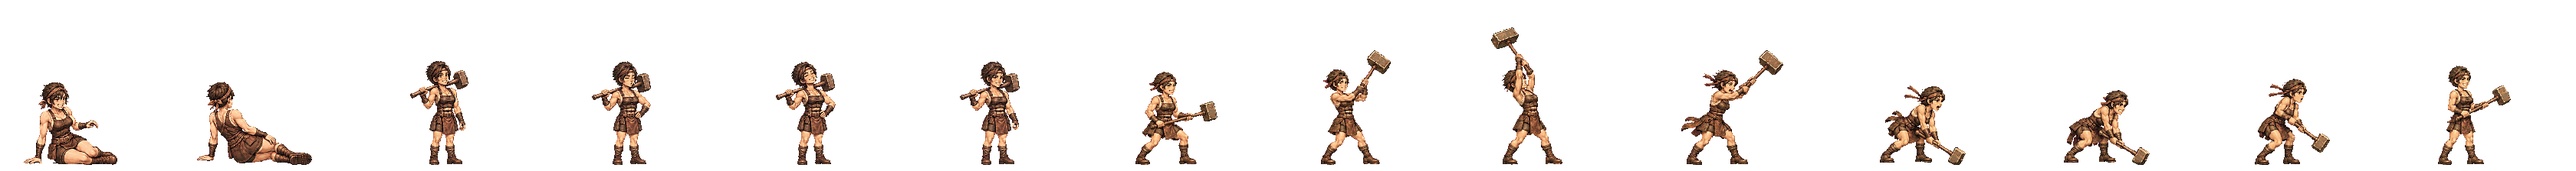
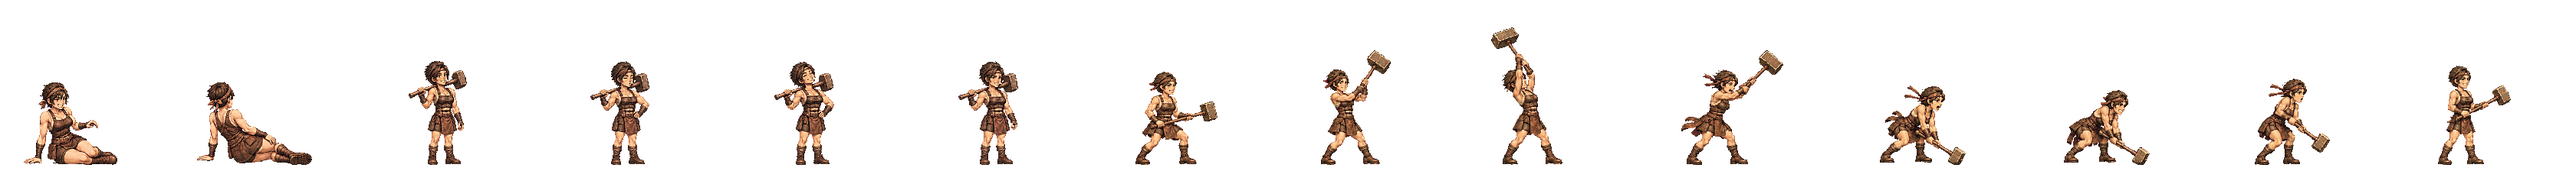
아룸: 서기 키를 걷기와 맞춤(133 → 138) · 검사에 서기↔걷기 키 항목
서기가 옆 사람보다 작게 그려진 채 구워져, 걷기 시작할 때 몸이 3% 커졌다. 서기를 동작 칸의 키로 다시 굽는다(bake-scene stand h=).
anim-check: 걷기 칸의 키와 서기 키의 차(1.8% 안 · 3% 넘으면 불합격).

Claude-Session: https://claude.ai/code/session_01TRiuN7s6aDfSnaHxrkctmU

diff --git a/src/realm/data/spritePx.ts b/src/realm/data/spritePx.ts
@@ -1,3 +1,3 @@
 /** public/realm/anim-px/manifest.json 의 사본 — tools/sprite-normalize.mjs 가 만든다 (손으로 고치지 말 것). 칸 [가로, 세로] · feet = 발 줄(칸 위에서 y) · bodyPx = 서 있는 몸 키 */
 import { expandManifest } from './sprite-manifest.ts'
-export const SPRITE_PX: Readonly<Record<string, { readonly cell: readonly [number, number]; readonly feet: number; readonly bodyPx: number; readonly kind: 'general' | 'soldier' | 'folk' | 'crowd'; readonly cells: number }>> = expandManifest<{ readonly cell: readonly [number, number]; readonly feet: number; readonly bodyPx: number; readonly kind: 'general' | 'soldier' | 'folk' | 'crowd'; readonly cells: number }>([{"cell":[166,128],"feet":126,"bodyPx":124,"kind":"soldier","cells":20},{"cell":[116,128],"feet":126,"bodyPx":117,"kind":"soldier","cells":20},{"cell":[127,128],"feet":126,"bodyPx":116,"kind":"soldier","cells":20},{"cell":[269,128],"feet":126,"bodyPx":126,"kind":"soldier","cells":20},{"cell":[503,128],"feet":126,"bodyPx":127,"kind":"soldier","cells":20},{"cell":[614,128],"feet":126,"bodyPx":126,"kind":"soldier","cells":20},{"cell":[200,160],"feet":156,"bodyPx":138,"kind":"general","cells":20},{"cell":[208,160],"feet":155,"bodyPx":138,"kind":"general","cells":20},{"cell":[232,160],"feet":156,"bodyPx":138,"kind":"general","cells":20},{"cell":[208,160],"feet":154,"bodyPx":133,"kind":"general","cells":20},{"cell":[304,160],"feet":155,"bodyPx":135,"kind":"general","cells":20},{"cell":[224,160],"feet":156,"bodyPx":139,"kind":"general","cells":20},{"cell":[184,160],"feet":156,"bodyPx":138,"kind":"general","cells":20},{"cell":[208,160],"feet":154,"bodyPx":136,"kind":"general","cells":20},{"cell":[240,160],"feet":156,"bodyPx":138,"kind":"general","cells":20},{"cell":[208,160],"feet":156,"bodyPx":138,"kind":"general","cells":20},{"cell":[168,160],"feet":156,"bodyPx":138,"kind":"general","cells":20},{"cell":[192,160],"feet":156,"bodyPx":138,"kind":"general","cells":20},{"cell":[168,160],"feet":156,"bodyPx":124,"kind":"general","cells":20},{"cell":[216,160],"feet":156,"bodyPx":130,"kind":"general","cells":20},{"cell":[200,160],"feet":156,"bodyPx":116,"kind":"general","cells":20},{"cell":[200,160],"feet":156,"bodyPx":135,"kind":"general","cells":20},{"cell":[280,160],"feet":156,"bodyPx":138,"kind":"general","cells":20},{"cell":[232,160],"feet":155,"bodyPx":138,"kind":"general","cells":20},{"cell":[232,160],"feet":156,"bodyPx":134,"kind":"general","cells":20},{"cell":[144,160],"feet":156,"bodyPx":70,"kind":"general","cells":20},{"cell":[208,160],"feet":156,"bodyPx":70,"kind":"general","cells":20},{"cell":[192,160],"feet":156,"bodyPx":70,"kind":"general","cells":20},{"cell":[240,160],"feet":155,"bodyPx":138,"kind":"general","cells":20},{"cell":[160,160],"feet":156,"bodyPx":135,"kind":"general","cells":20},{"cell":[192,160],"feet":156,"bodyPx":128,"kind":"general","cells":20},{"cell":[224,160],"feet":155,"bodyPx":138,"kind":"general","cells":20},{"cell":[208,160],"feet":154,"bodyPx":138,"kind":"general","cells":20},{"cell":[232,160],"feet":156,"bodyPx":139,"kind":"general","cells":20},{"cell":[264,160],"feet":155,"bodyPx":138,"kind":"general","cells":20},{"cell":[216,160],"feet":156,"bodyPx":138,"kind":"general","cells":20},{"cell":[208,160],"feet":156,"bodyPx":134,"kind":"general","cells":20},{"cell":[176,160],"feet":156,"bodyPx":130,"kind":"general","cells":20},{"cell":[248,160],"feet":156,"bodyPx":138,"kind":"general","cells":20},{"cell":[248,160],"feet":155,"bodyPx":138,"kind":"general","cells":20},{"cell":[192,160],"feet":155,"bodyPx":138,"kind":"general","cells":20},{"cell":[192,160],"feet":156,"bodyPx":124,"kind":"general","cells":20},{"cell":[208,160],"feet":154,"bodyPx":131,"kind":"general","cells":20},{"cell":[256,160],"feet":156,"bodyPx":138,"kind":"general","cells":20},{"cell":[232,160],"feet":156,"bodyPx":73,"kind":"general","cells":20},{"cell":[256,160],"feet":155,"bodyPx":138,"kind":"general","cells":20},{"cell":[224,160],"feet":156,"bodyPx":138,"kind":"general","cells":20},{"cell":[264,160],"feet":156,"bodyPx":138,"kind":"general","cells":20},{"cell":[224,160],"feet":156,"bodyPx":128,"kind":"general","cells":20},{"cell":[176,160],"feet":156,"bodyPx":129,"kind":"general","cells":20},{"cell":[208,160],"feet":156,"bodyPx":132,"kind":"general","cells":20},{"cell":[216,160],"feet":155,"bodyPx":138,"kind":"general","cells":20},{"cell":[184,160],"feet":156,"bodyPx":122,"kind":"general","cells":20},{"cell":[176,160],"feet":156,"bodyPx":138,"kind":"general","cells":20},{"cell":[280,160],"feet":155,"bodyPx":133,"kind":"general","cells":20},{"cell":[176,160],"feet":156,"bodyPx":70,"kind":"general","cells":20},{"cell":[186,128],"feet":126,"bodyPx":127,"kind":"soldier","cells":20},{"cell":[298,128],"feet":126,"bodyPx":126,"kind":"soldier","cells":20},{"cell":[82,128],"feet":126,"bodyPx":114,"kind":"folk","cells":8},{"cell":[134,128],"feet":126,"bodyPx":119,"kind":"soldier","cells":20},{"cell":[380,128],"feet":126,"bodyPx":124,"kind":"soldier","cells":20},{"cell":[114,128],"feet":126,"bodyPx":115,"kind":"soldier","cells":20},{"cell":[122,128],"feet":126,"bodyPx":114,"kind":"soldier","cells":20},{"cell":[254,128],"feet":126,"bodyPx":128,"kind":"soldier","cells":20},{"cell":[438,128],"feet":126,"bodyPx":126,"kind":"soldier","cells":20},{"cell":[88,128],"feet":126,"bodyPx":113,"kind":"folk","cells":8},{"cell":[100,128],"feet":126,"bodyPx":115,"kind":"folk","cells":8},{"cell":[108,128],"feet":126,"bodyPx":115,"kind":"folk","cells":8},{"cell":[63,128],"feet":126,"bodyPx":113,"kind":"folk","cells":8},{"cell":[69,96],"feet":96,"bodyPx":96,"kind":"crowd","cells":1},{"cell":[54,96],"feet":96,"bodyPx":96,"kind":"crowd","cells":1},{"cell":[47,96],"feet":96,"bodyPx":96,"kind":"crowd","cells":1},{"cell":[49,96],"feet":96,"bodyPx":96,"kind":"crowd","cells":1},{"cell":[57,96],"feet":96,"bodyPx":96,"kind":"crowd","cells":1},{"cell":[55,96],"feet":96,"bodyPx":96,"kind":"crowd","cells":1},{"cell":[45,96],"feet":96,"bodyPx":96,"kind":"crowd","cells":1},{"cell":[53,96],"feet":96,"bodyPx":96,"kind":"crowd","cells":1},{"cell":[64,96],"feet":96,"bodyPx":96,"kind":"crowd","cells":1},{"cell":[184,160],"feet":156,"bodyPx":124,"kind":"general","cells":20},{"cell":[184,160],"feet":156,"bodyPx":134,"kind":"general","cells":20},{"cell":[224,160],"feet":156,"bodyPx":133,"kind":"general","cells":20},{"cell":[192,160],"feet":156,"bodyPx":135,"kind":"general","cells":20},{"cell":[184,160],"feet":156,"bodyPx":137,"kind":"general","cells":20},{"cell":[216,160],"feet":156,"bodyPx":134,"kind":"general","cells":20},{"cell":[216,160],"feet":156,"bodyPx":132,"kind":"general","cells":20},{"cell":[288,160],"feet":156,"bodyPx":138,"kind":"general","cells":20},{"cell":[208,160],"feet":154,"bodyPx":139,"kind":"general","cells":20},{"cell":[192,160],"feet":156,"bodyPx":118,"kind":"general","cells":20},{"cell":[192,160],"feet":156,"bodyPx":134,"kind":"general","cells":20},{"cell":[192,160],"feet":157,"bodyPx":139,"kind":"general","cells":20},{"cell":[184,160],"feet":156,"bodyPx":128,"kind":"general","cells":20},{"cell":[240,160],"feet":156,"bodyPx":128,"kind":"general","cells":20},{"cell":[184,160],"feet":156,"bodyPx":132,"kind":"general","cells":20},{"cell":[208,160],"feet":156,"bodyPx":123,"kind":"general","cells":20},{"cell":[176,160],"feet":156,"bodyPx":116,"kind":"general","cells":20},{"cell":[272,160],"feet":156,"bodyPx":138,"kind":"general","cells":20},{"cell":[176,160],"feet":156,"bodyPx":122,"kind":"general","cells":20},{"cell":[232,160],"feet":156,"bodyPx":127,"kind":"general","cells":20},{"cell":[176,160],"feet":156,"bodyPx":137,"kind":"general","cells":20},{"cell":[184,160],"feet":156,"bodyPx":133,"kind":"general","cells":20}],[["axe",0],["bandit-chief",1],["bandit-club",2],["boat",3],["bow",4],["crossbow",5],["gen-adogan",6],["gen-alpyeong",7],["gen-ara",8],["gen-areum",9],["gen-aryeong",10],["gen-bakdal",6],["gen-baram",11],["gen-bdanbi",12],["gen-beom",13],["gen-beombal",12],["gen-beomi",14],["gen-bira",8],["gen-biryu",15],["gen-budeul",16],["gen-byeol",17],["gen-daemusin",18],["gen-daeso",19],["gen-dallae2",12],["gen-dalli",12],["gen-damul",20],["gen-danbi",15],["gen-dangung",17],["gen-darae",21],["gen-dokmudeom",7],["gen-duman",22],["gen-eomni",23],["gen-eureum",24],["gen-g-bow",25],["gen-g-spear",26],["gen-g-sword",27],["gen-gaennae",6],["gen-gamsil",28],["gen-gaon",29],["gen-geota",15],["gen-geumbawi",12],["gen-geumha",30],["gen-goeun",15],["gen-gom",31],["gen-gomok",15],["gen-gureum",28],["gen-guryema",17],["gen-gwaeyu",8],["gen-haebi",32],["gen-haedal",6],["gen-haesol",33],["gen-halla",7],["gen-heo",34],["gen-hneoul",12],["gen-hogong",35],["gen-hojin",15],["gen-horselord",36],["gen-hwalmi",37],["gen-hyeokgeose",17],["gen-hyeopbo",6],["gen-irang",15],["gen-jibaekho",38],["gen-jinha",39],["gen-jita",40],["gen-jumong",41],["gen-keundol",7],["gen-maehwa",42],["gen-maenun",17],["gen-malgalgi",43],["gen-mari",14],["gen-maro",38],["gen-maryeo",15],["gen-mdallae",33],["gen-mir",6],["gen-mount",44],["gen-mulbeom",45],["gen-mulsae",35],["gen-musoe",35],["gen-noeul",46],["gen-nuri",47],["gen-ocheongan",46],["gen-odi",39],["gen-odogan",6],["gen-ogan",17],["gen-oi",48],["gen-olddaeso",24],["gen-onjo",49],["gen-pidogan",15],["gen-sagong",31],["gen-sdallae",6],["gen-sincheongan",35],["gen-singwigan",35],["gen-sinneoul",23],["gen-sobeol",23],["gen-soebi",6],["gen-soebo",50],["gen-soenun",38],["gen-sogeumbi",51],["gen-songbi",46],["gen-songyang",52],["gen-sori",53],["gen-soseono",54],["gen-suro",17],["gen-tahae",6],["gen-tneoul",46],["gen-w-bow",25],["gen-w-spear",55],["gen-waechief",15],["gen-wan",35],["gen-yeodogan",15],["gen-yucheongan",15],["gen-yusugan",38],["horse",56],["marine",57],["migrant",58],["militia",59],["pike",60],["pirate-captain",61],["pirate-sword",62],["shield",63],["spear",64],["villager-builder",65],["villager-farmer",66],["villager-porter",67],["villager-woman",68],["crowd-b1",69],["crowd-b2",70],["crowd-b3",71],["crowd-b4",72],["crowd-b5",73],["crowd-b6",74],["crowd-f1",69],["crowd-f2",74],["crowd-f3",75],["crowd-f4",76],["crowd-f5",69],["crowd-f6",77],["gen-dalbit",15],["gen-base-g-07-drunk-warrior",17],["gen-base-g-40-anya-adan",15],["gen-base-w-13-young-archer",15],["gen-base-g-03-sea-trader",14],["gen-base-w-10-pirate-captain",47],["gen-base-w-64-miri-dallae",14],["gen-base-g-41-goja-bau",14],["gen-base-g-42-dokro-garam",47],["gen-base-g-09-farmer-conscript",35],["gen-base-w-02-goguryeo-lady",35],["gen-base-w-17-mahan-pearl-diver",46],["gen-base-g-17-saro-isageum",50],["gen-base-g-18-daegaya-king",78],["gen-base-g-35-dabeol-dalgu",15],["gen-base-g-19-sabeol-veteran",35],["gen-base-w-23-usisan-whale-queen",35],["gen-base-g-36-gammun-gamdol",46],["gen-base-g-20-samul-sea-lord",43],["gen-base-g-37-eumjeup-jeup",12],["gen-base-g-38-chopal-palmae",17],["gen-base-w-75-daegaya-soemoe",17],["gen-base-g-45-dabeol-deulgae",12],["gen-base-g-04-jinhan-giant",15],["gen-base-g-08-veteran",15],["gen-base-w-18-jinhan-salt-widow",15],["gen-base-w-12-court-dancer",79],["gen-base-w-83-gyeonji-beodeul",80],["gen-base-w-05-baekje-queen",81],["gen-base-w-21-baekje-court-dancer",12],["gen-base-g-01-master-smith",82],["gen-base-g-93-jomun-solgae",37],["gen-base-g-57-bihwa-neup",14],["gen-base-w-72-eumjeup-beol",15],["gen-base-w-102-garak-dana",35],["gen-base-g-68-baekje-onnuri",15],["gen-base-w-27-mokji-jinha",6],["gen-base-g-22-ungcheon-gomnae",6],["gen-base-g-23-sangdang-soedal",15],["gen-base-g-24-wansan-onsan",6],["gen-base-g-25-balla-keunmoe",35],["gen-base-g-61-heomcheuk-bawi",35],["gen-base-g-88-wander-soeul",46],["gen-base-w-14-feast-spy",6],["gen-base-g-12-silla-youth",83],["gen-base-w-08-mahan-warrior",14],["gen-base-g-62-beonye-hanul",14],["gen-base-g-63-heomcheuk-beogeum",15],["gen-base-g-84-wander-seoneul",15],["gen-base-w-50-siljik-mulga",35],["gen-base-g-46-uga-nureongso",35],["gen-base-w-80-usan-gangchi",14],["gen-base-g-47-guga-sanyanggae",35],["gen-base-w-76-gampyeong-baetsagong",38],["gen-base-g-05-mahan-chieftain",84],["gen-base-g-58-usan-uhae",15],["gen-base-g-27-maek-maekdol",15],["gen-base-w-53-hwanna-gabi",16],["gen-base-w-29-golpo-janmul",38],["gen-base-g-53-baekje-haeru",6],["gen-base-w-71-yeonna-neoul",14],["gen-base-w-79-yangmaek-solmae",35],["gen-base-w-34-chopal-deulme",47],["gen-base-g-44-maga-malgup",85],["gen-base-w-31-dabeol-dalbit",86],["gen-base-g-51-biryuna-mulgyeol",46],["gen-base-g-48-gwanna-musoe",15],["gen-base-g-32-uga-sodu",8],["gen-base-g-49-goguryeo-sona",87],["gen-base-g-30-gwanna-soemoe",46],["gen-base-g-52-tamna-oreum",12],["gen-base-g-29-yeonna-myeongsol",41],["gen-base-w-56-dongokjeo-sogeum",88],["gen-base-g-54-mokji-mahan",8],["gen-base-g-33-jeoga-metdol",17],["gen-base-w-36-baekje-maena",17],["gen-base-w-38-sangdang-bulmae",6],["gen-base-w-39-gosaburi-galmae",89],["gen-base-w-40-mujin-munui",50],["gen-base-w-41-hwanna-beodeul",90],["gen-base-w-43-uga-nuri",43],["gen-base-w-45-tamna-oreumbi",12],["gen-base-g-60-golbeol-golgae",12],["gen-base-g-61-apdok-ap",35],["gen-base-g-62-gammun-gamnamu",6],["gen-base-g-63-chopal-yeoul",38],["gen-base-g-64-michuhol-sogeumkkun",14],["gen-base-g-65-sangdang-soemangchi",46],["gen-base-g-66-geonma-malbalgup",91],["gen-base-g-67-gosaburi-buri",92],["gen-base-g-68-mujin-bitgoeul",12],["gen-base-g-69-goryong-yong",46],["gen-base-g-70-siljik-pado",14],["gen-base-w-81-byeokjin-byeolbit",8],["gen-base-w-46-geonma-maru",38],["gen-base-w-48-mujin-mudeung",14],["gen-base-g-26-gampyeong-gaetbeol",8],["gen-base-g-60-eupcha-hangyeol",93],["gen-base-g-15-shaman-man",35],["gen-base-g-85-wander-ure",38],["gen-base-g-43-hwanna-amnok",15],["gen-base-g-50-bullae-gwaha",81],["gen-base-g-55-saro-bakdal",15],["gen-base-g-56-haseulla-gwahama",6],["gen-base-w-06-buyeo-huntress",14],["gen-base-w-22-dongye-tiger-huntress",14],["gen-base-w-25-bihwa-priestess",35],["gen-base-w-24-apdok-queen",12],["gen-base-w-61-iseo-sinae",15],["gen-base-w-26-iseo-tomboy-general",47],["gen-base-g-59-yangmaek-maekson",94],["gen-aw1-haebi",46],["gen-aw1-soseono",95],["gen-aw1-gamsil",12],["gen-aw1-mir",53],["gen-aw1-dangung",6],["gen-aw1-ara",46],["gen-aw1-jumong",96],["gen-aw1-onjo",97],["gen-aw1-base-w-83-gyeonji-beodeul",17],["gen-aw1-heo",47],["gen-aw1-base-g-38-chopal-palmae",6],["gen-aw1-base-w-25-bihwa-priestess",79],["gen-aw1-sori",16],["gen-aw1-gomok",6],["gen-aw1-irang",17],["gen-aw1-budeul",16],["gen-aw1-gom",14],["gen-aw1-sdallae",6],["gen-aw1-base-w-13-young-archer",6],["gen-aw1-base-w-36-baekje-maena",98],["gen-aw1-base-g-09-farmer-conscript",47],["gen-aw1-base-w-02-goguryeo-lady",99],["gen-aw1-haedal",12],["gen-aw1-hogong",6],["gen-aw1-maehwa",53],["gen-aw1-base-w-06-buyeo-huntress",8],["gen-aw1-base-w-08-mahan-warrior",46],["gen-aw1-base-w-29-golpo-janmul",46],["gen-aw1-base-w-31-dabeol-dalbit",17],["gen-aw1-base-w-38-sangdang-bulmae",16],["gen-aw1-bira",35],["gen-aw1-base-w-53-hwanna-gabi",16],["gen-aw1-base-w-56-dongokjeo-sogeum",53],["gen-aw1-base-w-72-eumjeup-beol",17],["gen-aw1-bdanbi",16],["gen-aw1-beom",12],["gen-aw1-beombal",12],["gen-aw1-byeol",17],["gen-aw1-dalli",53],["gen-aw1-malgalgi",38],["gen-aw1-sincheongan",35]])
+export const SPRITE_PX: Readonly<Record<string, { readonly cell: readonly [number, number]; readonly feet: number; readonly bodyPx: number; readonly kind: 'general' | 'soldier' | 'folk' | 'crowd'; readonly cells: number }>> = expandManifest<{ readonly cell: readonly [number, number]; readonly feet: number; readonly bodyPx: number; readonly kind: 'general' | 'soldier' | 'folk' | 'crowd'; readonly cells: number }>([{"cell":[166,128],"feet":126,"bodyPx":124,"kind":"soldier","cells":20},{"cell":[116,128],"feet":126,"bodyPx":117,"kind":"soldier","cells":20},{"cell":[127,128],"feet":126,"bodyPx":116,"kind":"soldier","cells":20},{"cell":[269,128],"feet":126,"bodyPx":126,"kind":"soldier","cells":20},{"cell":[503,128],"feet":126,"bodyPx":127,"kind":"soldier","cells":20},{"cell":[614,128],"feet":126,"bodyPx":126,"kind":"soldier","cells":20},{"cell":[200,160],"feet":156,"bodyPx":138,"kind":"general","cells":20},{"cell":[208,160],"feet":155,"bodyPx":138,"kind":"general","cells":20},{"cell":[232,160],"feet":156,"bodyPx":138,"kind":"general","cells":20},{"cell":[208,160],"feet":154,"bodyPx":138,"kind":"general","cells":20},{"cell":[304,160],"feet":155,"bodyPx":135,"kind":"general","cells":20},{"cell":[224,160],"feet":156,"bodyPx":139,"kind":"general","cells":20},{"cell":[184,160],"feet":156,"bodyPx":138,"kind":"general","cells":20},{"cell":[208,160],"feet":154,"bodyPx":136,"kind":"general","cells":20},{"cell":[240,160],"feet":156,"bodyPx":138,"kind":"general","cells":20},{"cell":[208,160],"feet":156,"bodyPx":138,"kind":"general","cells":20},{"cell":[168,160],"feet":156,"bodyPx":138,"kind":"general","cells":20},{"cell":[192,160],"feet":156,"bodyPx":138,"kind":"general","cells":20},{"cell":[168,160],"feet":156,"bodyPx":124,"kind":"general","cells":20},{"cell":[216,160],"feet":156,"bodyPx":130,"kind":"general","cells":20},{"cell":[200,160],"feet":156,"bodyPx":116,"kind":"general","cells":20},{"cell":[200,160],"feet":156,"bodyPx":135,"kind":"general","cells":20},{"cell":[280,160],"feet":156,"bodyPx":138,"kind":"general","cells":20},{"cell":[232,160],"feet":155,"bodyPx":138,"kind":"general","cells":20},{"cell":[232,160],"feet":156,"bodyPx":134,"kind":"general","cells":20},{"cell":[144,160],"feet":156,"bodyPx":70,"kind":"general","cells":20},{"cell":[208,160],"feet":156,"bodyPx":70,"kind":"general","cells":20},{"cell":[192,160],"feet":156,"bodyPx":70,"kind":"general","cells":20},{"cell":[240,160],"feet":155,"bodyPx":138,"kind":"general","cells":20},{"cell":[160,160],"feet":156,"bodyPx":135,"kind":"general","cells":20},{"cell":[192,160],"feet":156,"bodyPx":128,"kind":"general","cells":20},{"cell":[224,160],"feet":155,"bodyPx":138,"kind":"general","cells":20},{"cell":[232,160],"feet":156,"bodyPx":139,"kind":"general","cells":20},{"cell":[264,160],"feet":155,"bodyPx":138,"kind":"general","cells":20},{"cell":[216,160],"feet":156,"bodyPx":138,"kind":"general","cells":20},{"cell":[208,160],"feet":156,"bodyPx":134,"kind":"general","cells":20},{"cell":[176,160],"feet":156,"bodyPx":130,"kind":"general","cells":20},{"cell":[248,160],"feet":156,"bodyPx":138,"kind":"general","cells":20},{"cell":[248,160],"feet":155,"bodyPx":138,"kind":"general","cells":20},{"cell":[192,160],"feet":155,"bodyPx":138,"kind":"general","cells":20},{"cell":[192,160],"feet":156,"bodyPx":124,"kind":"general","cells":20},{"cell":[208,160],"feet":154,"bodyPx":131,"kind":"general","cells":20},{"cell":[256,160],"feet":156,"bodyPx":138,"kind":"general","cells":20},{"cell":[232,160],"feet":156,"bodyPx":73,"kind":"general","cells":20},{"cell":[256,160],"feet":155,"bodyPx":138,"kind":"general","cells":20},{"cell":[224,160],"feet":156,"bodyPx":138,"kind":"general","cells":20},{"cell":[264,160],"feet":156,"bodyPx":138,"kind":"general","cells":20},{"cell":[224,160],"feet":156,"bodyPx":128,"kind":"general","cells":20},{"cell":[176,160],"feet":156,"bodyPx":129,"kind":"general","cells":20},{"cell":[208,160],"feet":156,"bodyPx":132,"kind":"general","cells":20},{"cell":[216,160],"feet":155,"bodyPx":138,"kind":"general","cells":20},{"cell":[184,160],"feet":156,"bodyPx":122,"kind":"general","cells":20},{"cell":[176,160],"feet":156,"bodyPx":138,"kind":"general","cells":20},{"cell":[280,160],"feet":155,"bodyPx":133,"kind":"general","cells":20},{"cell":[176,160],"feet":156,"bodyPx":70,"kind":"general","cells":20},{"cell":[186,128],"feet":126,"bodyPx":127,"kind":"soldier","cells":20},{"cell":[298,128],"feet":126,"bodyPx":126,"kind":"soldier","cells":20},{"cell":[82,128],"feet":126,"bodyPx":114,"kind":"folk","cells":8},{"cell":[134,128],"feet":126,"bodyPx":119,"kind":"soldier","cells":20},{"cell":[380,128],"feet":126,"bodyPx":124,"kind":"soldier","cells":20},{"cell":[114,128],"feet":126,"bodyPx":115,"kind":"soldier","cells":20},{"cell":[122,128],"feet":126,"bodyPx":114,"kind":"soldier","cells":20},{"cell":[254,128],"feet":126,"bodyPx":128,"kind":"soldier","cells":20},{"cell":[438,128],"feet":126,"bodyPx":126,"kind":"soldier","cells":20},{"cell":[88,128],"feet":126,"bodyPx":113,"kind":"folk","cells":8},{"cell":[100,128],"feet":126,"bodyPx":115,"kind":"folk","cells":8},{"cell":[108,128],"feet":126,"bodyPx":115,"kind":"folk","cells":8},{"cell":[63,128],"feet":126,"bodyPx":113,"kind":"folk","cells":8},{"cell":[69,96],"feet":96,"bodyPx":96,"kind":"crowd","cells":1},{"cell":[54,96],"feet":96,"bodyPx":96,"kind":"crowd","cells":1},{"cell":[47,96],"feet":96,"bodyPx":96,"kind":"crowd","cells":1},{"cell":[49,96],"feet":96,"bodyPx":96,"kind":"crowd","cells":1},{"cell":[57,96],"feet":96,"bodyPx":96,"kind":"crowd","cells":1},{"cell":[55,96],"feet":96,"bodyPx":96,"kind":"crowd","cells":1},{"cell":[45,96],"feet":96,"bodyPx":96,"kind":"crowd","cells":1},{"cell":[53,96],"feet":96,"bodyPx":96,"kind":"crowd","cells":1},{"cell":[64,96],"feet":96,"bodyPx":96,"kind":"crowd","cells":1},{"cell":[184,160],"feet":156,"bodyPx":124,"kind":"general","cells":20},{"cell":[184,160],"feet":156,"bodyPx":134,"kind":"general","cells":20},{"cell":[224,160],"feet":156,"bodyPx":133,"kind":"general","cells":20},{"cell":[192,160],"feet":156,"bodyPx":135,"kind":"general","cells":20},{"cell":[184,160],"feet":156,"bodyPx":137,"kind":"general","cells":20},{"cell":[216,160],"feet":156,"bodyPx":134,"kind":"general","cells":20},{"cell":[216,160],"feet":156,"bodyPx":132,"kind":"general","cells":20},{"cell":[288,160],"feet":156,"bodyPx":138,"kind":"general","cells":20},{"cell":[208,160],"feet":154,"bodyPx":139,"kind":"general","cells":20},{"cell":[192,160],"feet":156,"bodyPx":118,"kind":"general","cells":20},{"cell":[192,160],"feet":156,"bodyPx":134,"kind":"general","cells":20},{"cell":[192,160],"feet":157,"bodyPx":139,"kind":"general","cells":20},{"cell":[184,160],"feet":156,"bodyPx":128,"kind":"general","cells":20},{"cell":[240,160],"feet":156,"bodyPx":128,"kind":"general","cells":20},{"cell":[184,160],"feet":156,"bodyPx":132,"kind":"general","cells":20},{"cell":[208,160],"feet":156,"bodyPx":123,"kind":"general","cells":20},{"cell":[176,160],"feet":156,"bodyPx":116,"kind":"general","cells":20},{"cell":[272,160],"feet":156,"bodyPx":138,"kind":"general","cells":20},{"cell":[176,160],"feet":156,"bodyPx":122,"kind":"general","cells":20},{"cell":[232,160],"feet":156,"bodyPx":127,"kind":"general","cells":20},{"cell":[176,160],"feet":156,"bodyPx":137,"kind":"general","cells":20},{"cell":[184,160],"feet":156,"bodyPx":133,"kind":"general","cells":20}],[["axe",0],["bandit-chief",1],["bandit-club",2],["boat",3],["bow",4],["crossbow",5],["gen-adogan",6],["gen-alpyeong",7],["gen-ara",8],["gen-areum",9],["gen-aryeong",10],["gen-bakdal",6],["gen-baram",11],["gen-bdanbi",12],["gen-beom",13],["gen-beombal",12],["gen-beomi",14],["gen-bira",8],["gen-biryu",15],["gen-budeul",16],["gen-byeol",17],["gen-daemusin",18],["gen-daeso",19],["gen-dallae2",12],["gen-dalli",12],["gen-damul",20],["gen-danbi",15],["gen-dangung",17],["gen-darae",21],["gen-dokmudeom",7],["gen-duman",22],["gen-eomni",23],["gen-eureum",24],["gen-g-bow",25],["gen-g-spear",26],["gen-g-sword",27],["gen-gaennae",6],["gen-gamsil",28],["gen-gaon",29],["gen-geota",15],["gen-geumbawi",12],["gen-geumha",30],["gen-goeun",15],["gen-gom",31],["gen-gomok",15],["gen-gureum",28],["gen-guryema",17],["gen-gwaeyu",8],["gen-haebi",9],["gen-haedal",6],["gen-haesol",32],["gen-halla",7],["gen-heo",33],["gen-hneoul",12],["gen-hogong",34],["gen-hojin",15],["gen-horselord",35],["gen-hwalmi",36],["gen-hyeokgeose",17],["gen-hyeopbo",6],["gen-irang",15],["gen-jibaekho",37],["gen-jinha",38],["gen-jita",39],["gen-jumong",40],["gen-keundol",7],["gen-maehwa",41],["gen-maenun",17],["gen-malgalgi",42],["gen-mari",14],["gen-maro",37],["gen-maryeo",15],["gen-mdallae",32],["gen-mir",6],["gen-mount",43],["gen-mulbeom",44],["gen-mulsae",34],["gen-musoe",34],["gen-noeul",45],["gen-nuri",46],["gen-ocheongan",45],["gen-odi",38],["gen-odogan",6],["gen-ogan",17],["gen-oi",47],["gen-olddaeso",24],["gen-onjo",48],["gen-pidogan",15],["gen-sagong",31],["gen-sdallae",6],["gen-sincheongan",34],["gen-singwigan",34],["gen-sinneoul",23],["gen-sobeol",23],["gen-soebi",6],["gen-soebo",49],["gen-soenun",37],["gen-sogeumbi",50],["gen-songbi",45],["gen-songyang",51],["gen-sori",52],["gen-soseono",53],["gen-suro",17],["gen-tahae",6],["gen-tneoul",45],["gen-w-bow",25],["gen-w-spear",54],["gen-waechief",15],["gen-wan",34],["gen-yeodogan",15],["gen-yucheongan",15],["gen-yusugan",37],["horse",55],["marine",56],["migrant",57],["militia",58],["pike",59],["pirate-captain",60],["pirate-sword",61],["shield",62],["spear",63],["villager-builder",64],["villager-farmer",65],["villager-porter",66],["villager-woman",67],["crowd-b1",68],["crowd-b2",69],["crowd-b3",70],["crowd-b4",71],["crowd-b5",72],["crowd-b6",73],["crowd-f1",68],["crowd-f2",73],["crowd-f3",74],["crowd-f4",75],["crowd-f5",68],["crowd-f6",76],["gen-dalbit",15],["gen-base-g-07-drunk-warrior",17],["gen-base-g-40-anya-adan",15],["gen-base-w-13-young-archer",15],["gen-base-g-03-sea-trader",14],["gen-base-w-10-pirate-captain",46],["gen-base-w-64-miri-dallae",14],["gen-base-g-41-goja-bau",14],["gen-base-g-42-dokro-garam",46],["gen-base-g-09-farmer-conscript",34],["gen-base-w-02-goguryeo-lady",34],["gen-base-w-17-mahan-pearl-diver",45],["gen-base-g-17-saro-isageum",49],["gen-base-g-18-daegaya-king",77],["gen-base-g-35-dabeol-dalgu",15],["gen-base-g-19-sabeol-veteran",34],["gen-base-w-23-usisan-whale-queen",34],["gen-base-g-36-gammun-gamdol",45],["gen-base-g-20-samul-sea-lord",42],["gen-base-g-37-eumjeup-jeup",12],["gen-base-g-38-chopal-palmae",17],["gen-base-w-75-daegaya-soemoe",17],["gen-base-g-45-dabeol-deulgae",12],["gen-base-g-04-jinhan-giant",15],["gen-base-g-08-veteran",15],["gen-base-w-18-jinhan-salt-widow",15],["gen-base-w-12-court-dancer",78],["gen-base-w-83-gyeonji-beodeul",79],["gen-base-w-05-baekje-queen",80],["gen-base-w-21-baekje-court-dancer",12],["gen-base-g-01-master-smith",81],["gen-base-g-93-jomun-solgae",36],["gen-base-g-57-bihwa-neup",14],["gen-base-w-72-eumjeup-beol",15],["gen-base-w-102-garak-dana",34],["gen-base-g-68-baekje-onnuri",15],["gen-base-w-27-mokji-jinha",6],["gen-base-g-22-ungcheon-gomnae",6],["gen-base-g-23-sangdang-soedal",15],["gen-base-g-24-wansan-onsan",6],["gen-base-g-25-balla-keunmoe",34],["gen-base-g-61-heomcheuk-bawi",34],["gen-base-g-88-wander-soeul",45],["gen-base-w-14-feast-spy",6],["gen-base-g-12-silla-youth",82],["gen-base-w-08-mahan-warrior",14],["gen-base-g-62-beonye-hanul",14],["gen-base-g-63-heomcheuk-beogeum",15],["gen-base-g-84-wander-seoneul",15],["gen-base-w-50-siljik-mulga",34],["gen-base-g-46-uga-nureongso",34],["gen-base-w-80-usan-gangchi",14],["gen-base-g-47-guga-sanyanggae",34],["gen-base-w-76-gampyeong-baetsagong",37],["gen-base-g-05-mahan-chieftain",83],["gen-base-g-58-usan-uhae",15],["gen-base-g-27-maek-maekdol",15],["gen-base-w-53-hwanna-gabi",16],["gen-base-w-29-golpo-janmul",37],["gen-base-g-53-baekje-haeru",6],["gen-base-w-71-yeonna-neoul",14],["gen-base-w-79-yangmaek-solmae",34],["gen-base-w-34-chopal-deulme",46],["gen-base-g-44-maga-malgup",84],["gen-base-w-31-dabeol-dalbit",85],["gen-base-g-51-biryuna-mulgyeol",45],["gen-base-g-48-gwanna-musoe",15],["gen-base-g-32-uga-sodu",8],["gen-base-g-49-goguryeo-sona",86],["gen-base-g-30-gwanna-soemoe",45],["gen-base-g-52-tamna-oreum",12],["gen-base-g-29-yeonna-myeongsol",40],["gen-base-w-56-dongokjeo-sogeum",87],["gen-base-g-54-mokji-mahan",8],["gen-base-g-33-jeoga-metdol",17],["gen-base-w-36-baekje-maena",17],["gen-base-w-38-sangdang-bulmae",6],["gen-base-w-39-gosaburi-galmae",88],["gen-base-w-40-mujin-munui",49],["gen-base-w-41-hwanna-beodeul",89],["gen-base-w-43-uga-nuri",42],["gen-base-w-45-tamna-oreumbi",12],["gen-base-g-60-golbeol-golgae",12],["gen-base-g-61-apdok-ap",34],["gen-base-g-62-gammun-gamnamu",6],["gen-base-g-63-chopal-yeoul",37],["gen-base-g-64-michuhol-sogeumkkun",14],["gen-base-g-65-sangdang-soemangchi",45],["gen-base-g-66-geonma-malbalgup",90],["gen-base-g-67-gosaburi-buri",91],["gen-base-g-68-mujin-bitgoeul",12],["gen-base-g-69-goryong-yong",45],["gen-base-g-70-siljik-pado",14],["gen-base-w-81-byeokjin-byeolbit",8],["gen-base-w-46-geonma-maru",37],["gen-base-w-48-mujin-mudeung",14],["gen-base-g-26-gampyeong-gaetbeol",8],["gen-base-g-60-eupcha-hangyeol",92],["gen-base-g-15-shaman-man",34],["gen-base-g-85-wander-ure",37],["gen-base-g-43-hwanna-amnok",15],["gen-base-g-50-bullae-gwaha",80],["gen-base-g-55-saro-bakdal",15],["gen-base-g-56-haseulla-gwahama",6],["gen-base-w-06-buyeo-huntress",14],["gen-base-w-22-dongye-tiger-huntress",14],["gen-base-w-25-bihwa-priestess",34],["gen-base-w-24-apdok-queen",12],["gen-base-w-61-iseo-sinae",15],["gen-base-w-26-iseo-tomboy-general",46],["gen-base-g-59-yangmaek-maekson",93],["gen-aw1-haebi",45],["gen-aw1-soseono",94],["gen-aw1-gamsil",12],["gen-aw1-mir",52],["gen-aw1-dangung",6],["gen-aw1-ara",45],["gen-aw1-jumong",95],["gen-aw1-onjo",96],["gen-aw1-base-w-83-gyeonji-beodeul",17],["gen-aw1-heo",46],["gen-aw1-base-g-38-chopal-palmae",6],["gen-aw1-base-w-25-bihwa-priestess",78],["gen-aw1-sori",16],["gen-aw1-gomok",6],["gen-aw1-irang",17],["gen-aw1-budeul",16],["gen-aw1-gom",14],["gen-aw1-sdallae",6],["gen-aw1-base-w-13-young-archer",6],["gen-aw1-base-w-36-baekje-maena",97],["gen-aw1-base-g-09-farmer-conscript",46],["gen-aw1-base-w-02-goguryeo-lady",98],["gen-aw1-haedal",12],["gen-aw1-hogong",6],["gen-aw1-maehwa",52],["gen-aw1-base-w-06-buyeo-huntress",8],["gen-aw1-base-w-08-mahan-warrior",45],["gen-aw1-base-w-29-golpo-janmul",45],["gen-aw1-base-w-31-dabeol-dalbit",17],["gen-aw1-base-w-38-sangdang-bulmae",16],["gen-aw1-bira",34],["gen-aw1-base-w-53-hwanna-gabi",16],["gen-aw1-base-w-56-dongokjeo-sogeum",52],["gen-aw1-base-w-72-eumjeup-beol",17],["gen-aw1-bdanbi",16],["gen-aw1-beom",12],["gen-aw1-beombal",12],["gen-aw1-byeol",17],["gen-aw1-dalli",52],["gen-aw1-malgalgi",37],["gen-aw1-sincheongan",34]])

diff --git a/tools/sprite-kit/bake-scene.py b/tools/sprite-kit/bake-scene.py
@@ -72,11 +72,16 @@ def game(im, scale, colors=32):
     return Image.fromarray(np.dstack([q2, alpha]))
 
 
-def stand(path, name, idx=3, height=N):
+def stand(path, name, idx=3, height=N, target=None):
     figs = blobs(key(Image.open(path))); me = figs[idx - 1]
     ref = Image.open('public/realm/anim-px/gen-soseono.png').convert('RGBA'); fw = ref.size[0] // 20; ref = ref.crop((0, 0, fw, ref.size[1])); refh = ref.crop(ref.getchannel('A').getbbox()).size[1]
     scale = refh / figs[0].size[1]   # 첫째 사람 = 승인 띠 소서노(원래 키를 안다)
-    os.makedirs(PXD, exist_ok=True); me.save(f'{PXD}/{name}-stand.png'); g = game(me, scale); g.save(f'{PXD}/{name}-stand-game.png')
+    os.makedirs(PXD, exist_ok=True); me.save(f'{PXD}/{name}-stand.png'); g = game(me, scale)
+    # 서기의 키를 동작 칸과 맞춘다 (11-24): 걷기·공격 장면은 서기 그림을 늘 키 137 로 넣으므로 동작 칸은 138~140 으로 나온다.
+    #   서기가 옆 사람보다 작게 그려져(아룸·궁수 133) 그대로 구우면 서기 → 걷기에서 몸이 4.5% 커졌다. 서기를 target 키로 다시 굽는다.
+    if target and abs(g.size[1] - target) > 1:
+        was = g.size[1]; g = game(me, scale * target / was); print(f'  서기 키 {was} → {g.size[1]} (동작 칸과 맞춤)')
+    g.save(f'{PXD}/{name}-stand-game.png')
     print(f'{name}: 사람 {len(figs)}명 중 {idx}째 · 원본 {me.size} → 게임 {g.size} (소서노 {refh}px 기준)')
 
 
@@ -398,7 +403,10 @@ if __name__ == '__main__':
         else:
             motion8(sys.argv[2], sys.argv[3], scene=sc_arg)
         sys.exit()
-    if sys.argv[1] == 'stand': stand(sys.argv[2], sys.argv[3], int(sys.argv[4]) if len(sys.argv) > 4 else 3)
+    if sys.argv[1] == 'stand':   # stand <장면> <이름> [몇째 사람=3] [h=138 — 서기 키를 이 값으로 맞춰 굽는다]
+        tg = next((int(a[2:]) for a in sys.argv[4:] if a.startswith('h=')), None)
+        nums = [a for a in sys.argv[4:] if not a.startswith('h=')]
+        stand(sys.argv[2], sys.argv[3], int(nums[0]) if nums else 3, target=tg)
     else:
         rest = [a for a in sys.argv[5:] if a not in ('z3', 'rows')]
         motion(sys.argv[2], sys.argv[3], sys.argv[4], rest[0] if rest else None, 3 if 'z3' in sys.argv[5:] else Z, 'rows' in sys.argv[5:])

diff --git a/tools/sprite-kit/anim-check.py b/tools/sprite-kit/anim-check.py
@@ -14,6 +14,7 @@
   윗몸 흔들림 걷기 칸마다 윗몸(위 4~45%)을 첫 걷기 칸에 겹쳐 가장 잘 맞는 밀림 → 가로 폭 ÷ 키 (1.5% 안 합격 · 3% 넘으면 불합격)
   출렁임      같은 밀림의 세로 폭 ÷ 키 (참고: 0 이면 미끄러지듯, 4% 넘으면 튄다)
   서기↔걷기   서기 윗몸과 걷기 윗몸의 가로 어긋남 ÷ 키 (2% 안)
+  서기↔걷기 키 걷기 칸의 키(가운데 값)와 서기 키의 차 ÷ 키 (1.8% 안 · 3% 넘으면 불합격 — 걷기 시작할 때 몸이 커졌다 작아진다)
   보폭        걷기에서 두 발 띠의 가장 넓은 폭 ÷ 키 (참고)
   뻗음        공격에서 뿌리 앞으로 가장 멀리 나간 화소와 남은 앞 여백 (여백 6px 밑이면 경고)
   공격 끝     공격 마지막 칸의 윗몸이 서기로 돌아왔나 (6% 안)
@@ -152,6 +153,9 @@ def main(argv):
                 s0 = register(ref, stand_ref)
                 mid = s0[0] + (max(s[0] for s in sh) + min(s[0] for s in sh)) / 2
                 say(name, f'서기↔걷기 윗몸 어긋남 {mid:+.1f}px = 키의 {abs(mid) / H * 100:.1f}%', 2 if abs(mid) / H > .04 else 1 if abs(mid) / H > .02 else 0)
+            hs = [b[3] - b[2] + 1 for b in bx]
+            dh = float(np.median(hs)) - H
+            say(name, f'서기↔걷기 키: 걷기 가운데 값 {np.median(hs):.0f} · 서기 {H} · 차 {dh:+.0f}px = 키의 {abs(dh) / H * 100:.1f}%', 2 if abs(dh) / H > .03 else 1 if abs(dh) / H > .018 else 0)
             w = [feet_band(al[i]) for i in idx]
             say(name, f'보폭: 발 띠 폭 {min(b - a for a, b in w)}~{max(b - a for a, b in w)}px = 키의 {max(b - a for a, b in w) / H * 100:.0f}% 까지 · 칸 수 {len(idx)}')
         if kind == 'attack':

diff --git a/tools/sprite-kit/anim-harness.py b/tools/sprite-kit/anim-harness.py
@@ -33,6 +33,8 @@ HEROES = {
     'beom': dict(strip='gen-beom', atk='claw', atk8=True),
     'maehwa': dict(strip='gen-maehwa', atk='bow', atk8=False),
     'dalbit': dict(strip='gen-base-w-31-dabeol-dalbit', atk='bow', atk8=False),
+    'archer': dict(strip='gen-base-w-13-young-archer', atk='bow', atk8=False),   # 앳된 궁수
+    'pirate': dict(strip='gen-base-w-10-pirate-captain', atk='thrust', atk8=True, act=True),   # 해적 두목(작살)
     'haebi': dict(strip='gen-haebi', atk='chop', atk8=True, act=True),   # act = 공격 여덟 칸이 넓은 동작 칸(240×224 · 뿌리 92 · 발 줄 216)
     'areum': dict(strip='gen-areum', atk='slam', atk8=True, act=True, lock='none'),   # 받은 그림 그대로(얼굴을 떠다 붙이지 않는다 — 11-24: 뭉친 얼굴이 여덟 칸에 퍼졌다) · 옛 lock='face': 메가 머리 뒤로 지나간다 — 머리 상자는 메를 자르고(「포스터」), 윗몸을 통째로 묶으면 떠다닌다(11-24 형) → 얼굴 안쪽만 묶는다
 }
